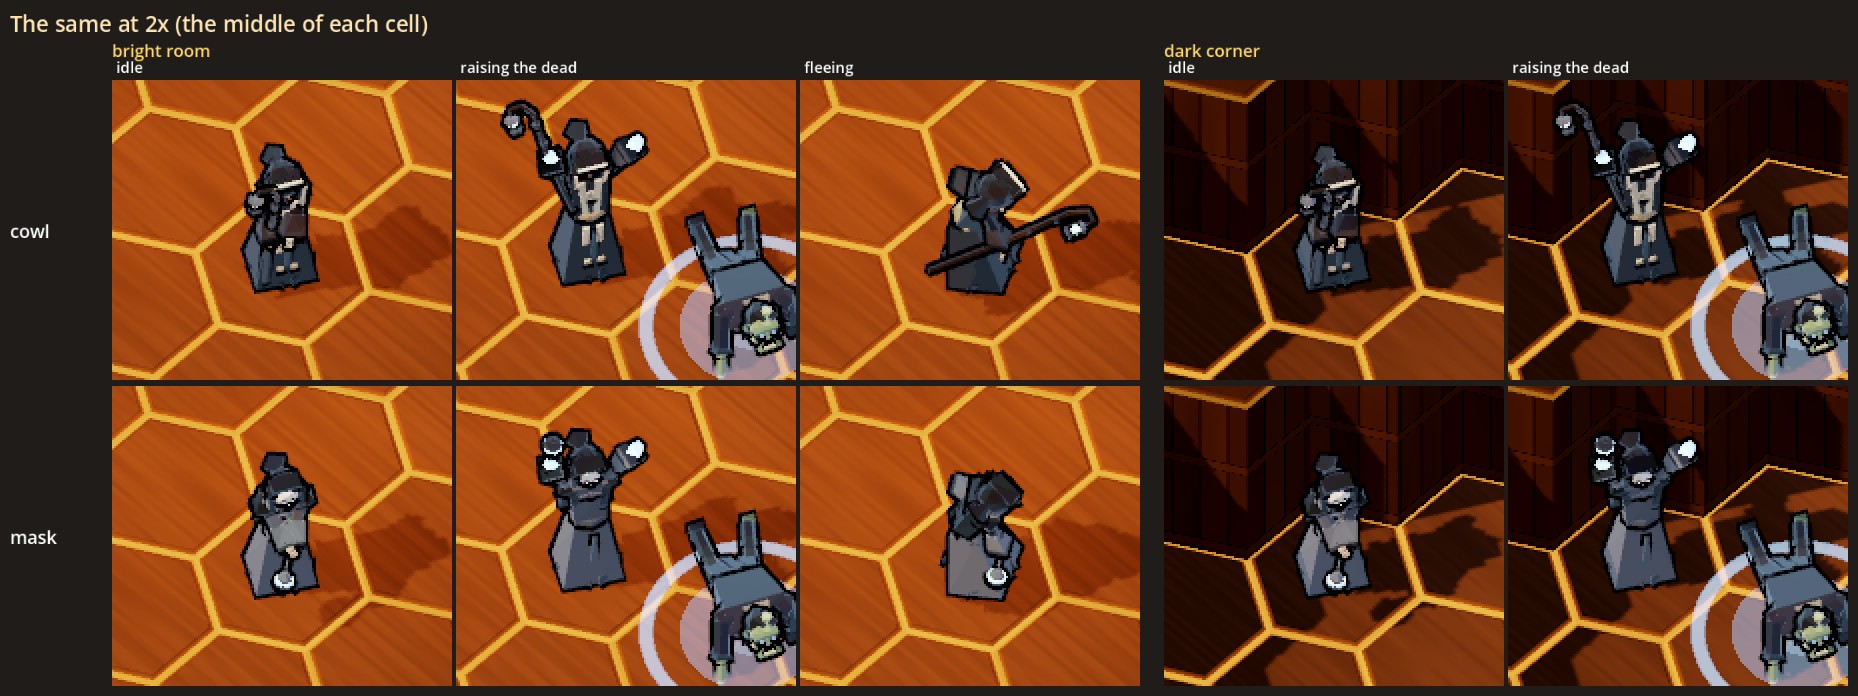
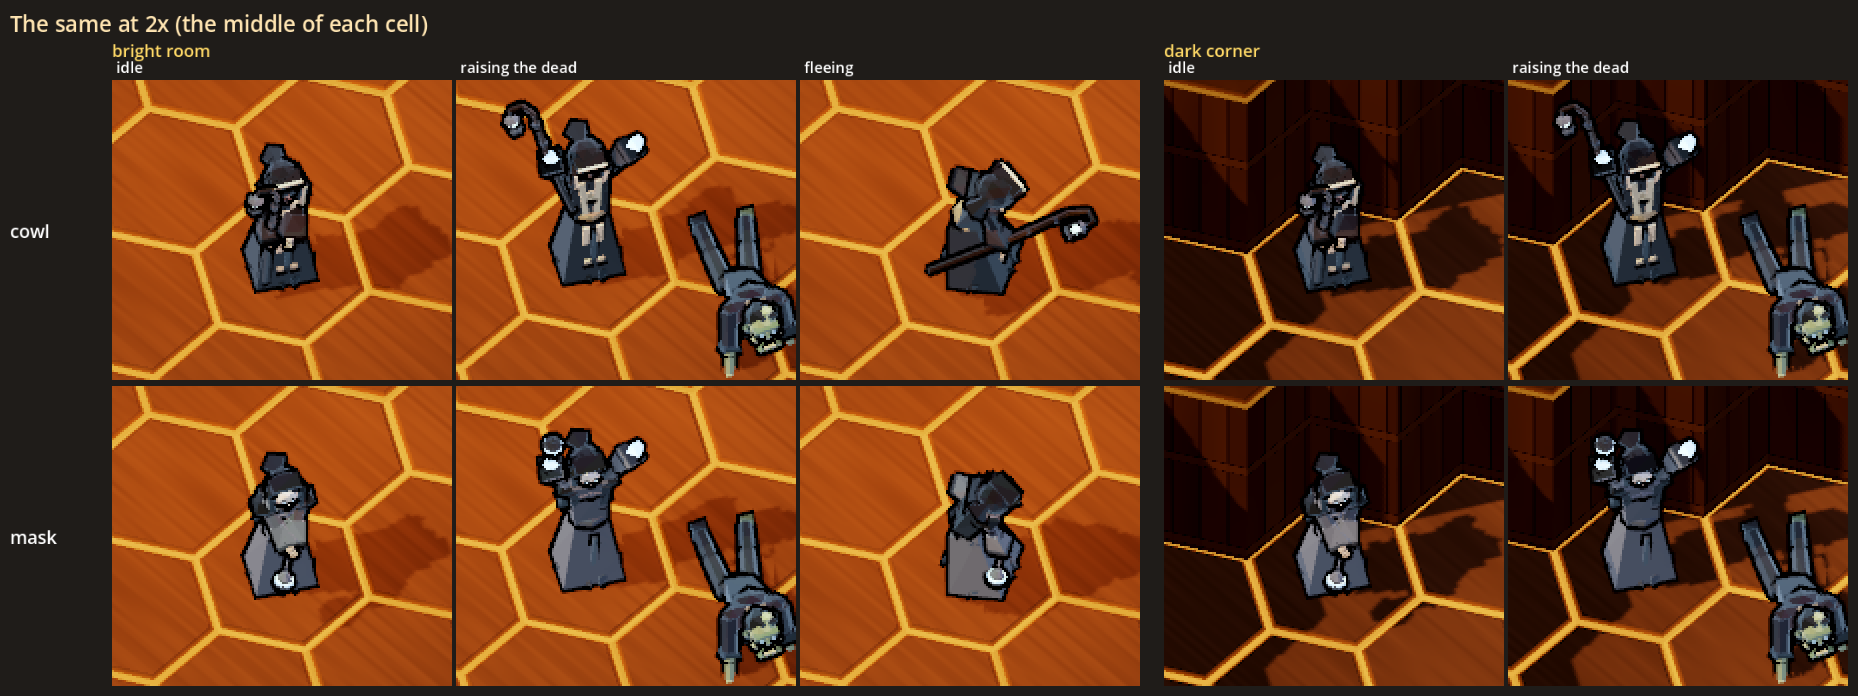
Necro look: the acolyte is the cowl (the user's pick); sheets re-rendered

diff --git a/docs/design/necro-look.md b/docs/design/necro-look.md
@@ -39,11 +39,12 @@ on eyes, hands, flames and pages, and the rim (the faceted fresnel) on the raise
   yellow iris with a slit pupil, a heavy upper lid over the back of it (`GrimoireModel._live_eye`). The iris is its own
   node and looks around: it holds a gaze, then darts to the next (`eye_dir`, `_look`). See it move in the gym
   (`--gym-act necro`, Experiments > Grimoire > shut).
+- **The acolyte is the cowl** (the user, 2026-10-29: "Cowl"): the black robe, the bone-white stole, the staff and lantern.
 
 ## What the user is choosing
 
 - **Which zombie**, or both: the **mourner** or the **digger**.
-- **Which acolyte**, or both: the **cowl** or the **mask**.
+- **Which acolyte**: the **cowl** (decided, see "The user's read").
 - **Which grimoire stand**: the **altar** (decided, see "The user's read").
 - **Two switches**, which can be set separately:
 
